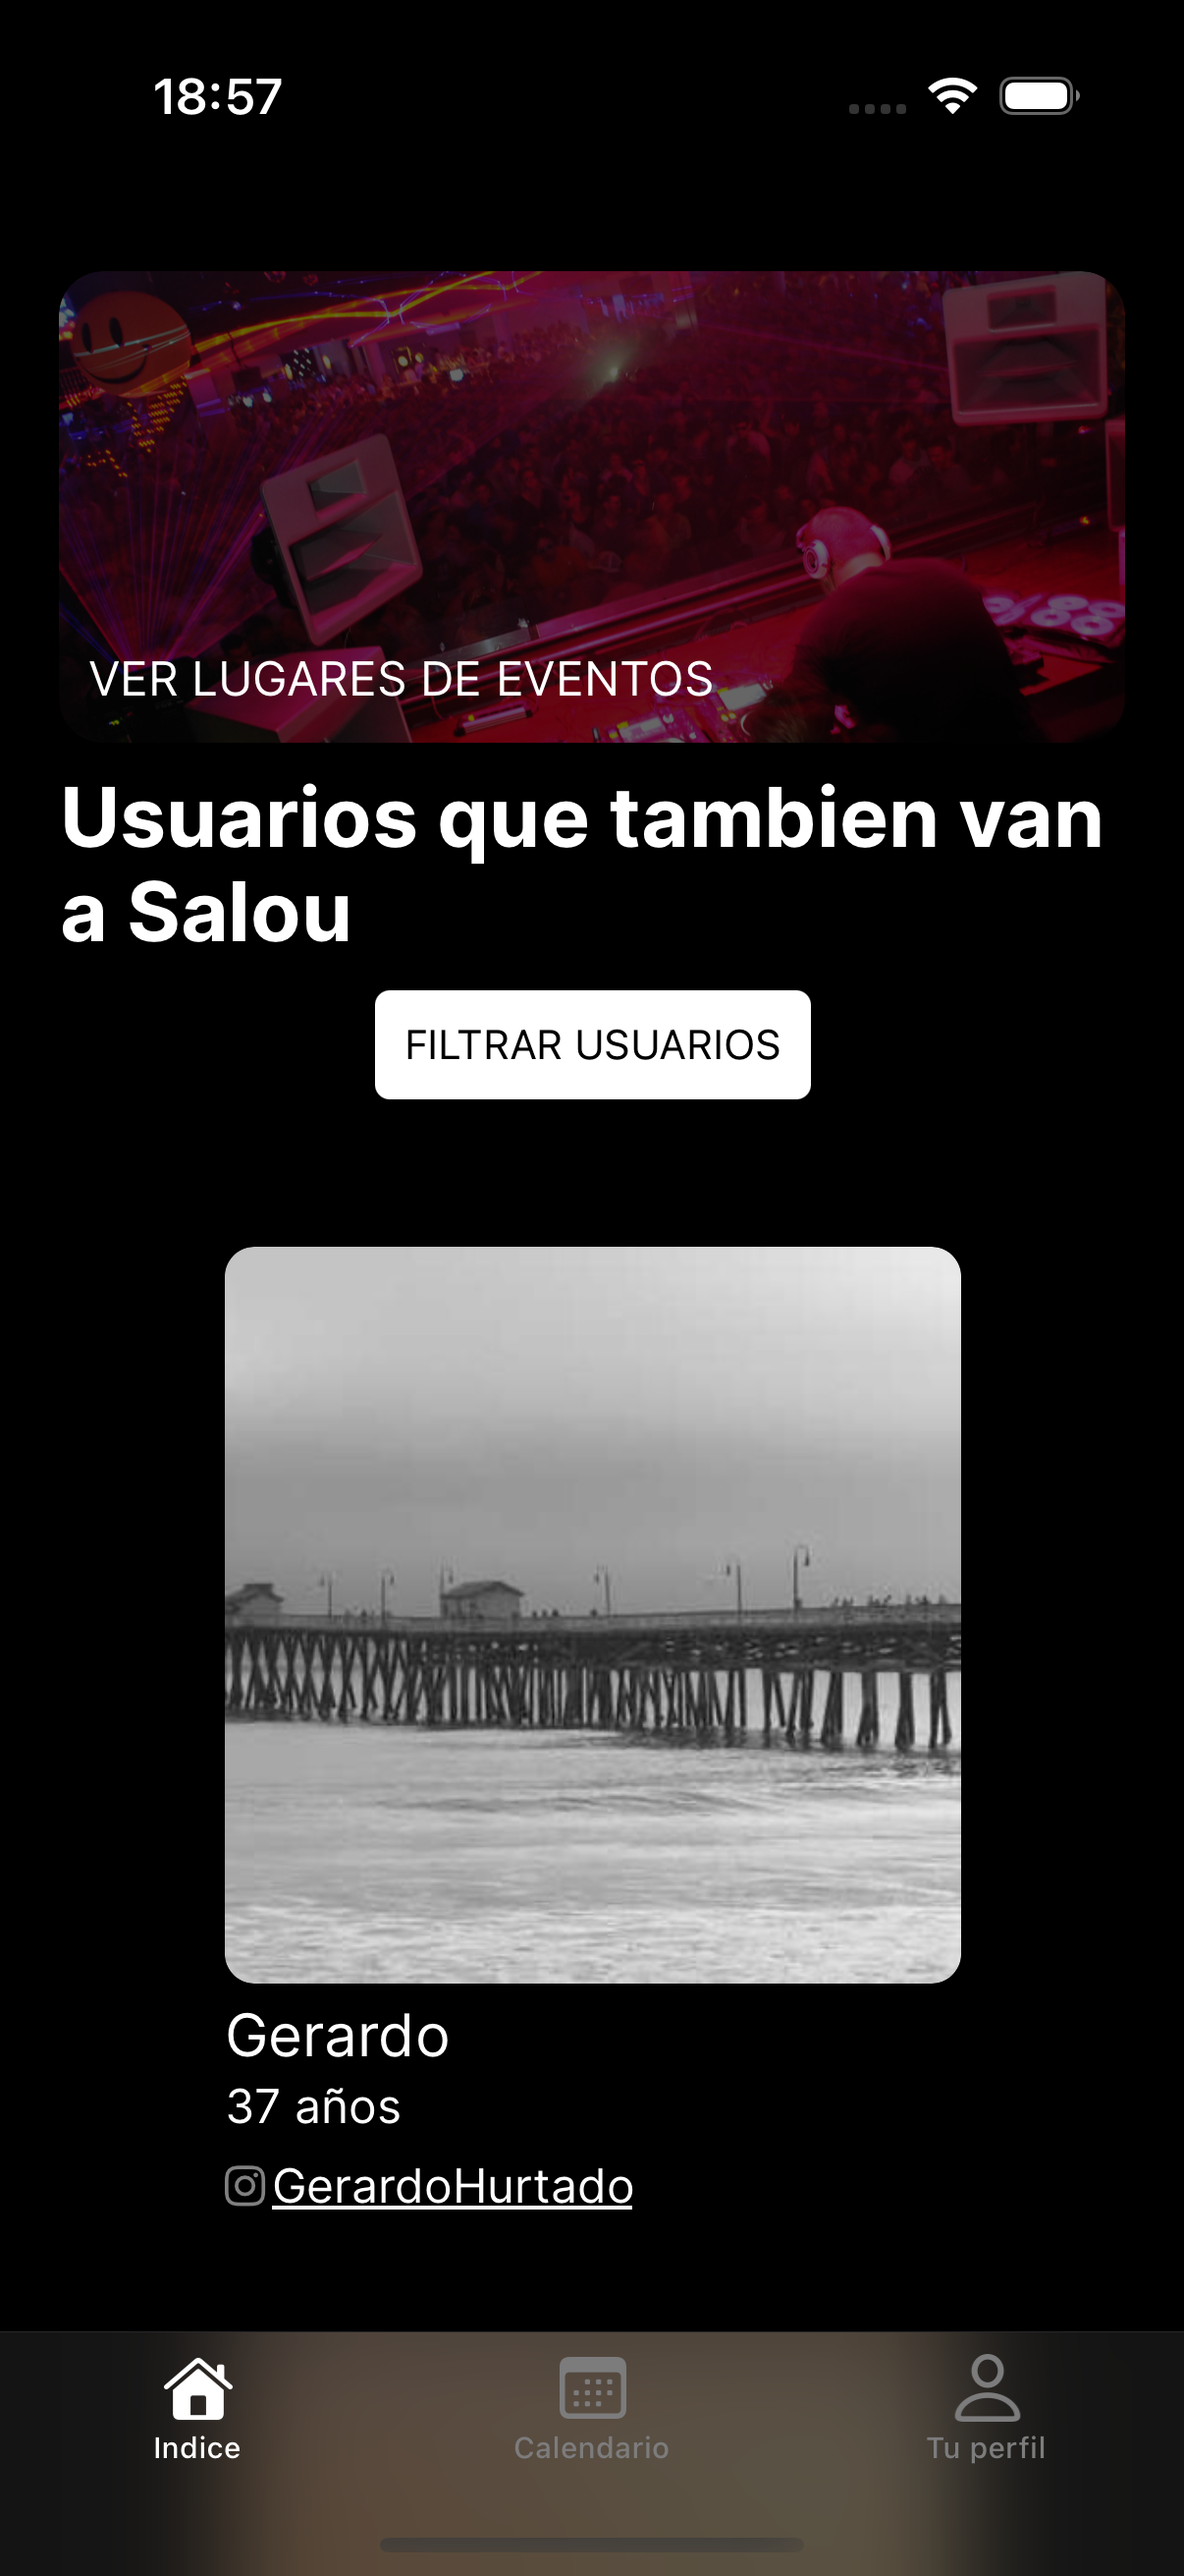
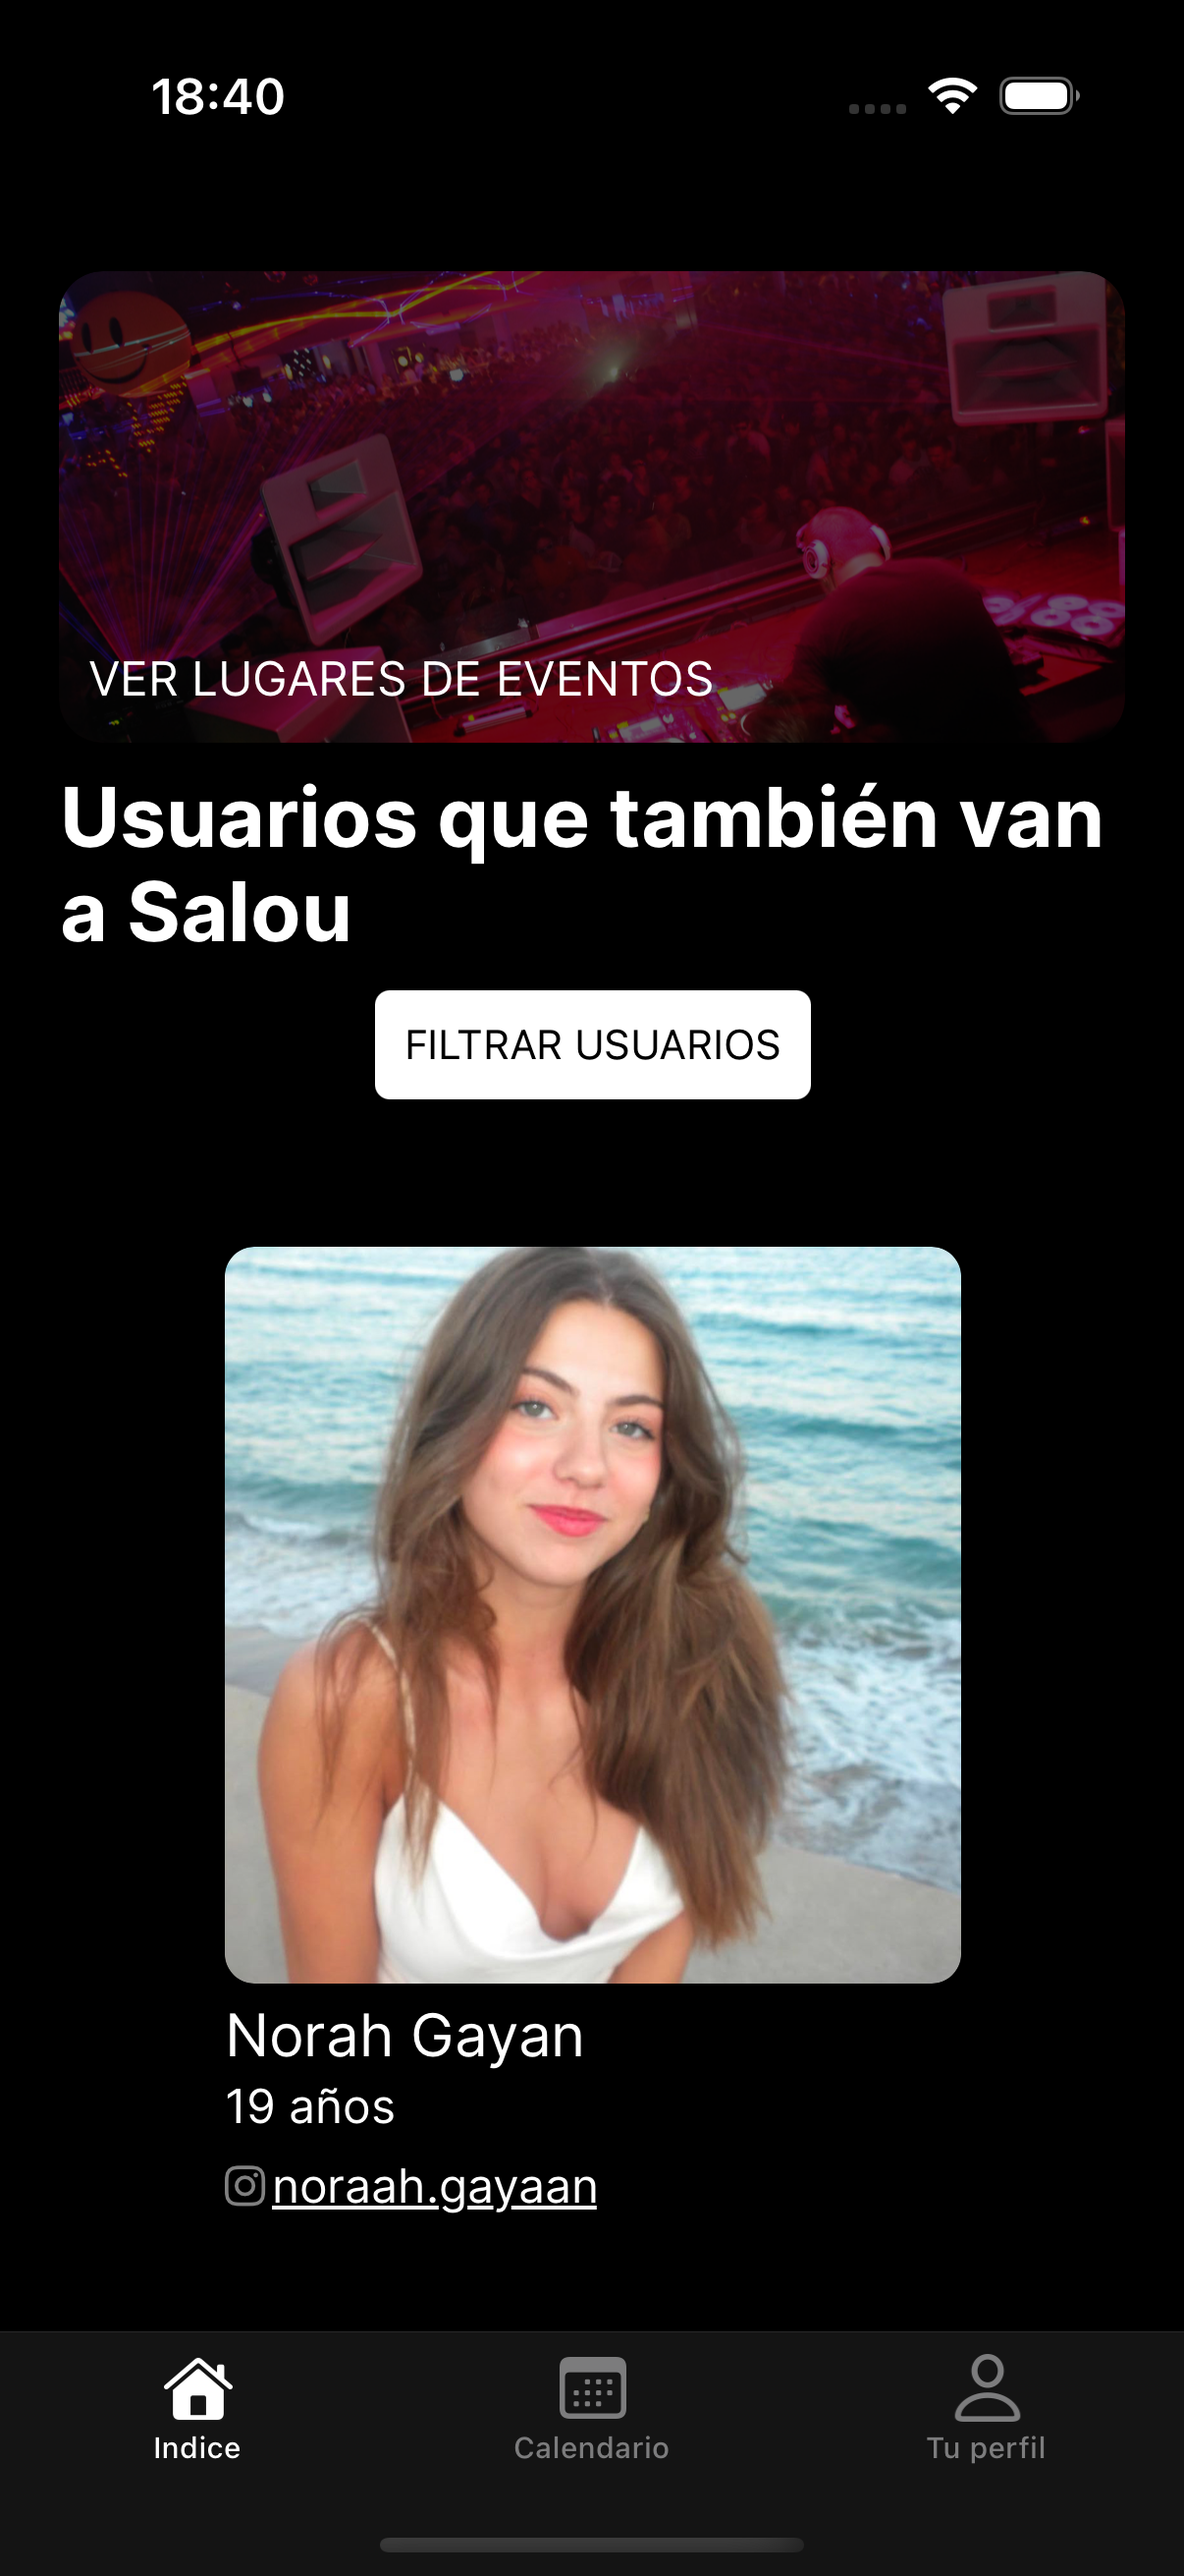
Add create fake user page, for testing environments. And update the screenshots with real people

Changed region(s): [[0.1841, 0.4634, 0.8284, 0.865], [0.1534, 0.8959, 0.859, 1.0], [0.1534, 0.0309, 0.2454, 0.0618]]

diff --git a/Pages/Admin/CreateFakeUser.cshtml.cs b/Pages/Admin/CreateFakeUser.cshtml.cs
@@ -1,0 +1,60 @@
+using Microsoft.AspNetCore.Identity;
+using Microsoft.AspNetCore.Mvc;
+using Microsoft.AspNetCore.Mvc.RazorPages;
+using Server.Data;
+using Server.Services;
+
+namespace Server.Pages.Admin;
+
+public class CreateFakeUser(UserManager<ApplicationUser> userManager, IProfilePictureService profilePictureService) : PageModel
+{
+    public class CreateFakeUserInput
+    {
+        public string UserName { get; set; }
+        public string? DisplayName { get; set; }
+        public string? Ig { get; set; }
+        public string? Description { get; set; }
+        public DateTime BirthDate { get; set; }
+        public DateTime EventStatusDate { get; set; }
+        public Gender Gender { get; set; }
+        public IFormFile ProfilePicture { get; set; }
+    }
+    
+    public void OnGet() { }
+   
+    [BindProperty]
+    public CreateFakeUserInput Input { get; set; }
+
+    public async Task<IActionResult> OnPostAsync()
+    {
+        if (!ModelState.IsValid)
+            return BadRequest(ModelState);
+
+        var user = new ApplicationUser
+        {
+            UserName = Input.UserName,
+            Email = "user_" + Input.UserName + "@example.com",
+            Name = Input.DisplayName,
+            IgHandle = Input.Ig,
+            Description = Input.Description,
+            BirthDate = Input.BirthDate,
+            Gender = Input.Gender,
+            EventStatus = new EventStatus
+            {
+                Active = true,
+                Location = Location.Salou,
+                Time = Input.EventStatusDate
+            },
+            HasPfp = true
+        };
+
+        var result = await userManager.CreateAsync(user);
+
+        if (!result.Succeeded)
+            return BadRequest(result.Errors);
+
+        await profilePictureService.UploadProfilePictureAsync(Input.ProfilePicture.OpenReadStream(), user.UserName);
+
+        return RedirectToPage("/Admin/Users");
+    }
+}
